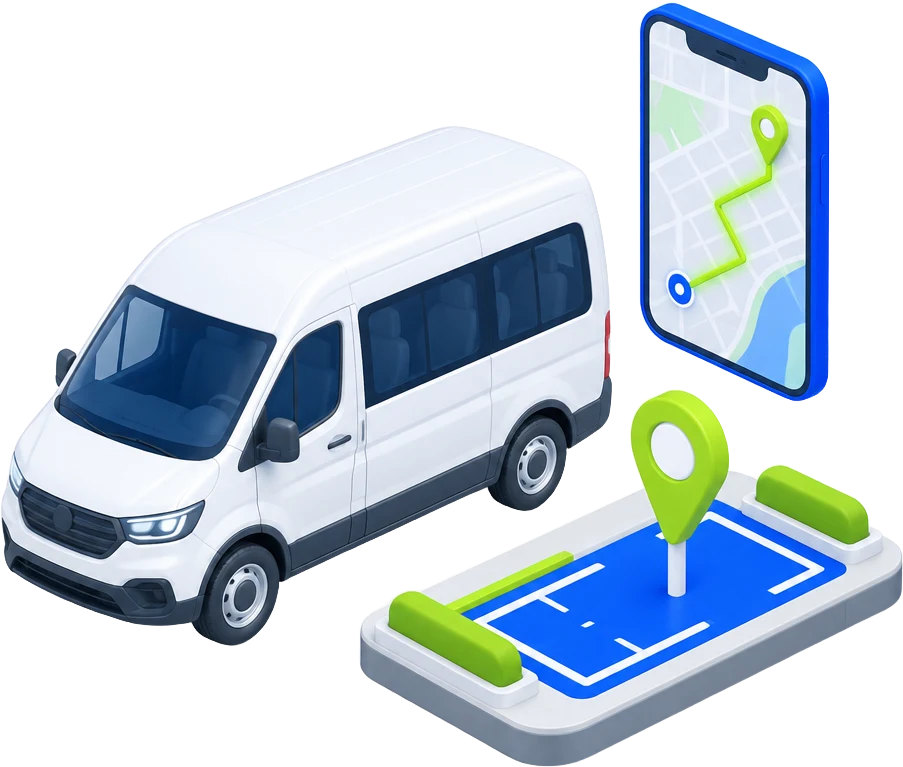
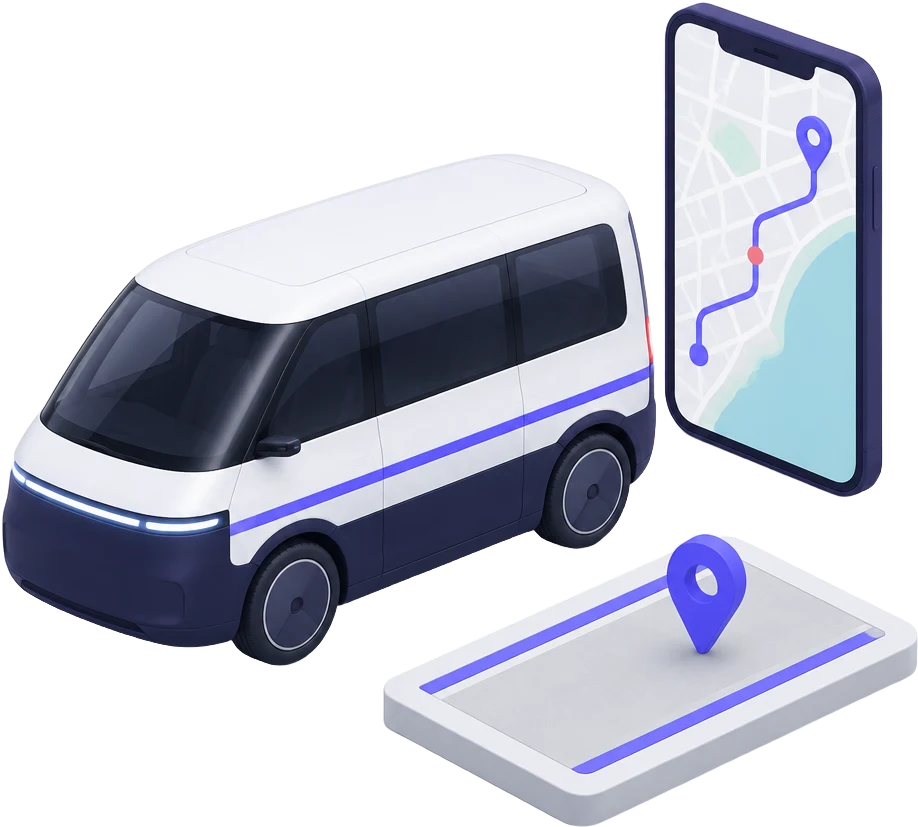
feat(grupo): a van do hero vira eletrica e troca a paleta do Go2Park pela da Movepark
A arte anterior saiu no azul #1B5FFF e no verde #A4E244, que sao as cores de UM dos
quatro produtos. No hero da pagina da casa isso subordina a marca-mae a uma das
filhas. A nova usa navy #29263F, violeta #5D5FEF e teal #A6DBDF, os tres do simbolo
da Movepark, com um ponto coral #DA455E de acento. Conferi a paleta no arquivo final:
as cores dominantes agora sao as da marca.

A van deixou de ser um furgao comum e virou um eletrico de linha limpa (monovolume
arredondado, sem grade, barra de LED corrida, rodas aerodinamicas). A ilustracao da
casa e a que fixa o tom das outras, entao ela precisa ser a mais atual das quatro.

Halo atras da arte. A saia da van e navy, a MESMA cor do hero, entao a base do veiculo
e as rodas sumiam no fundo. O halo e luz, nao caixa: um brilho radial fraco que devolve
o contorno sem recortar um retangulo em volta da imagem.

O recorte saiu de novo pelo remove_background do Higgsfield, com alfa conferido pixel a
pixel. As dimensoes mudaram (918x827), entao width/height do <img> acompanham: valor
velho ali volta a causar salto no carregamento.

diff --git a/src/routes/grupo.tsx b/src/routes/grupo.tsx
@@ -88,15 +88,24 @@ export default function GrupoPage() {
             </div>
           </div>
 
+          {/* Halo atrás da arte. A saia da van é navy #29263F, a mesma cor do hero, então
+              sem ele a base do veículo e as rodas somem no fundo. É luz, não caixa: um
+              brilho radial fraco que devolve o contorno sem recortar um retângulo. */}
+          <div className="relative mx-auto w-full max-w-[420px] desktop:max-w-none">
+            <div
+              className="pointer-events-none absolute inset-[8%] rounded-full bg-[radial-gradient(circle_at_center,rgba(255,255,255,0.14),rgba(255,255,255,0)_68%)] blur-xl"
+              aria-hidden
+            />
           <img
             src="/images/grupo-ecossistema.webp"
-            alt="Ilustração isométrica de uma van de traslado ao lado de uma vaga demarcada e de um celular com o mapa da rota"
-            width={903}
-            height={767}
-            className="mx-auto w-full max-w-[420px] desktop:max-w-none"
+            alt="Ilustração isométrica de uma van elétrica de traslado ao lado de uma vaga demarcada e de um celular com o mapa da rota"
+            width={918}
+            height={827}
+            className="relative mx-auto w-full"
             loading="eager"
             decoding="async"
           />
+          </div>
         </div>
       </section>
 

diff --git a/docs/specs/grupo-movepark.md b/docs/specs/grupo-movepark.md
@@ -141,11 +141,19 @@ com linha viram um emaranhado de 2px.
 
 ### 5.3 A ilustração
 
-Gerada no Higgsfield (`gpt_image_2_5`, 1 crédito) e recortada pelo `remove_background` do
-mesmo provedor, que entrega **alfa de verdade** (conferido pixel a pixel: `a=0` no canto e
-no topo). Isso importa porque o provedor oficial de imagem do projeto, o `gemini-image`,
-não entrega transparência: ele devolve o xadrez **pintado**. O arquivo final é
-`public/images/grupo-ecossistema.webp`, 903x767, 79KB.
+Gerada no Higgsfield (`gpt_image_2_5`) e recortada pelo `remove_background` do mesmo
+provedor, que entrega **alfa de verdade** (conferido pixel a pixel: `a=0` no canto e no
+topo). Isso importa porque o provedor oficial de imagem do projeto, o `gemini-image`, não
+entrega transparência: ele devolve o xadrez **pintado**. O arquivo final é
+`public/images/grupo-ecossistema.webp`, 918x827, 69KB.
+
+**A paleta é a da Movepark, e isso é decisão, não estética.** A primeira arte saiu no azul
+e no verde do Go2Park, que são as cores de **um** dos quatro produtos: no hero da página da
+casa, isso subordina a marca-mãe a uma das filhas. A arte atual usa navy `#29263F`, violeta
+`#5D5FEF` e teal `#A6DBDF`, os três do símbolo da Movepark, com um ponto coral `#DA455E` de
+acento. A van também mudou de um furgão comum para um elétrico de linha limpa, porque a
+ilustração da casa é a que fixa o tom das outras. Conferir a paleta do arquivo final faz
+parte da entrega: as cores dominantes têm que ser as da marca, e não as de um produto.
 
 ## 6. Superfície de máquina
 
